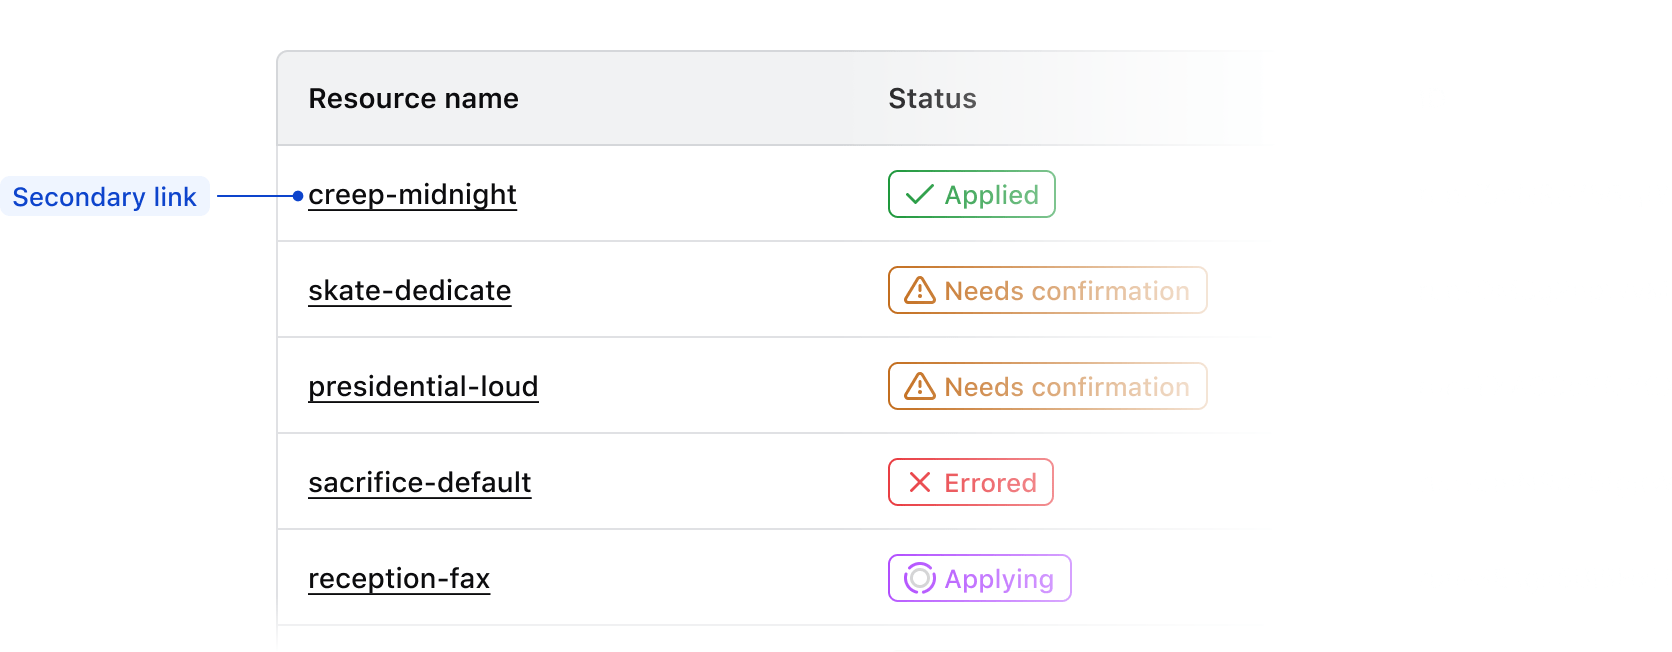
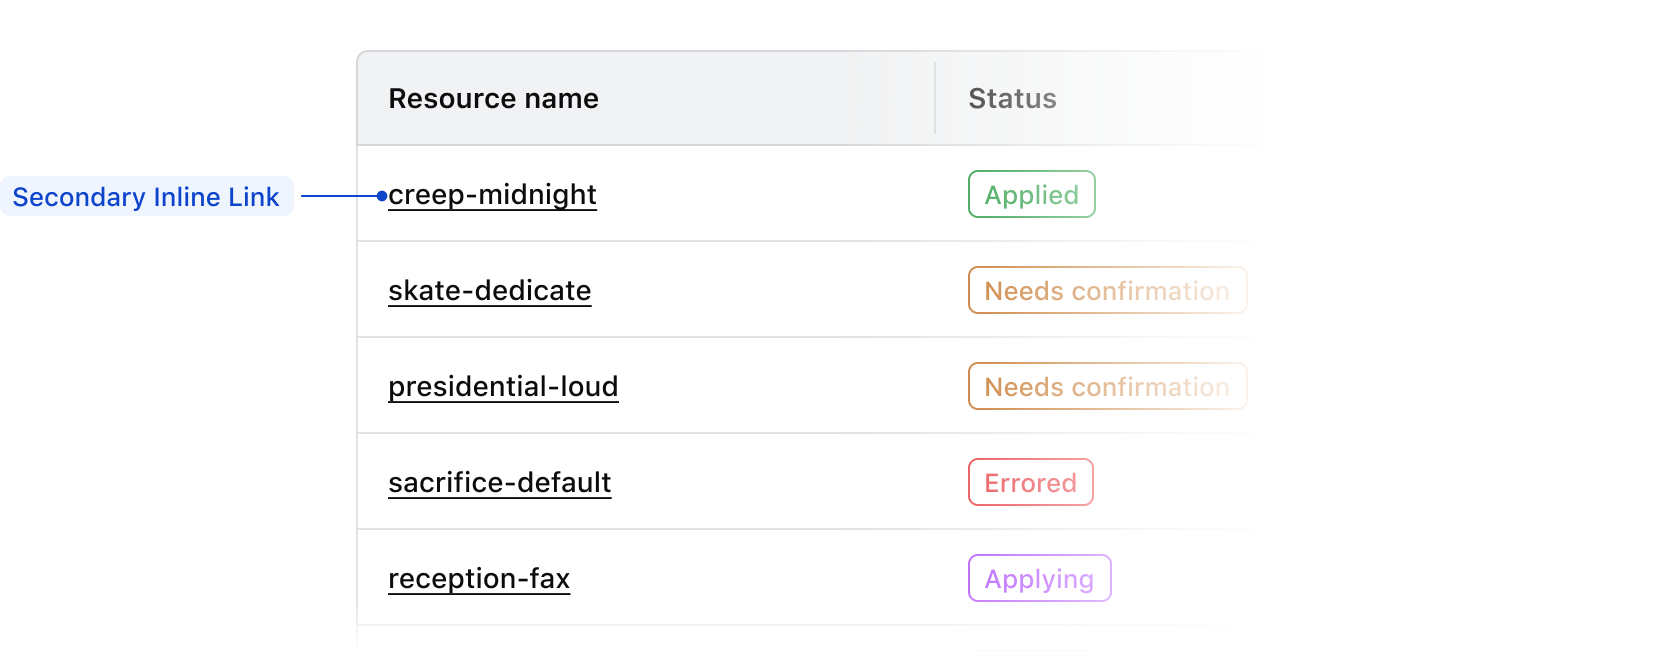
Clarify link font-weight in table documenation (#1885)

diff --git a/website/docs/components/table/partials/content/link-usage.md b/website/docs/components/table/partials/content/link-usage.md
@@ -1,24 +1,19 @@
 ## Links within cells
 
-!!! Info
+By default, we recommend using `secondary` [Inline Links](/components/link/inline) within a table, to avoid overloading the UI with the actionable blue color. The `secondary` variant uses the `foreground-strong` color.
 
-This guidance is an extension of the [Inline Link](/components/link/inline) guidelines.
-!!!
-
-Within a table, use `secondary` (`Foreground / Strong`) links as the default.
-
-Use `Body / 200 / Link` as the default typographic style within a table. This style increases the prominence slightly to differentiate it from other text content.
+To increase the prominence and further differentiate links from other text content, we recommend using a font-weight of `medium`. In code, you can use the CSS helper classes `hds-typography-body-200` and `hds-font-weight-medium`. In Figma, you can use the text style `Body/200/Link`.
 
 ![Link example](/assets/components/table/link-example.png)
 
-#### Multiple links
+### Multiple links
 
-If a table contains more than one column of links, consider using `Body / 200 / Link` for the most important links; usually the title of the row, ID, or other naming convention. For less important links, use `Body / 200 / Regular` with an added underline in Figma.
+If a table contains more than one column of links, consider using a `font-weight` of `medium` for the most important links, usually the title of the row or ID. For less important links, use a `font-weight` of `regular`.
 
 ![Multiple links within a table](/assets/components/table/multiple-links.png)
 
-#### Long-form content
+### Links in long-form content
 
-If a cell contains long-form or descriptive content, use the link style that is most appropriate for the hierarchy and frequency of links within the content. If there are a minimal number of links, `primary` styling may be appropriate, but if there are many links `secondary` styling may be more appropriate.
+If a cell contains long-form or descriptive content, use the link style that is most appropriate for the hierarchy and frequency of links within the content. If there are a minimal number of links, `primary` [Inline Links](/components/link/inline) may be appropriate, but if there are many links `secondary` [Inline Links](/components/link/inline) may work better.
 
 ![Links in long-form content](/assets/components/table/longform-content-links.png)
